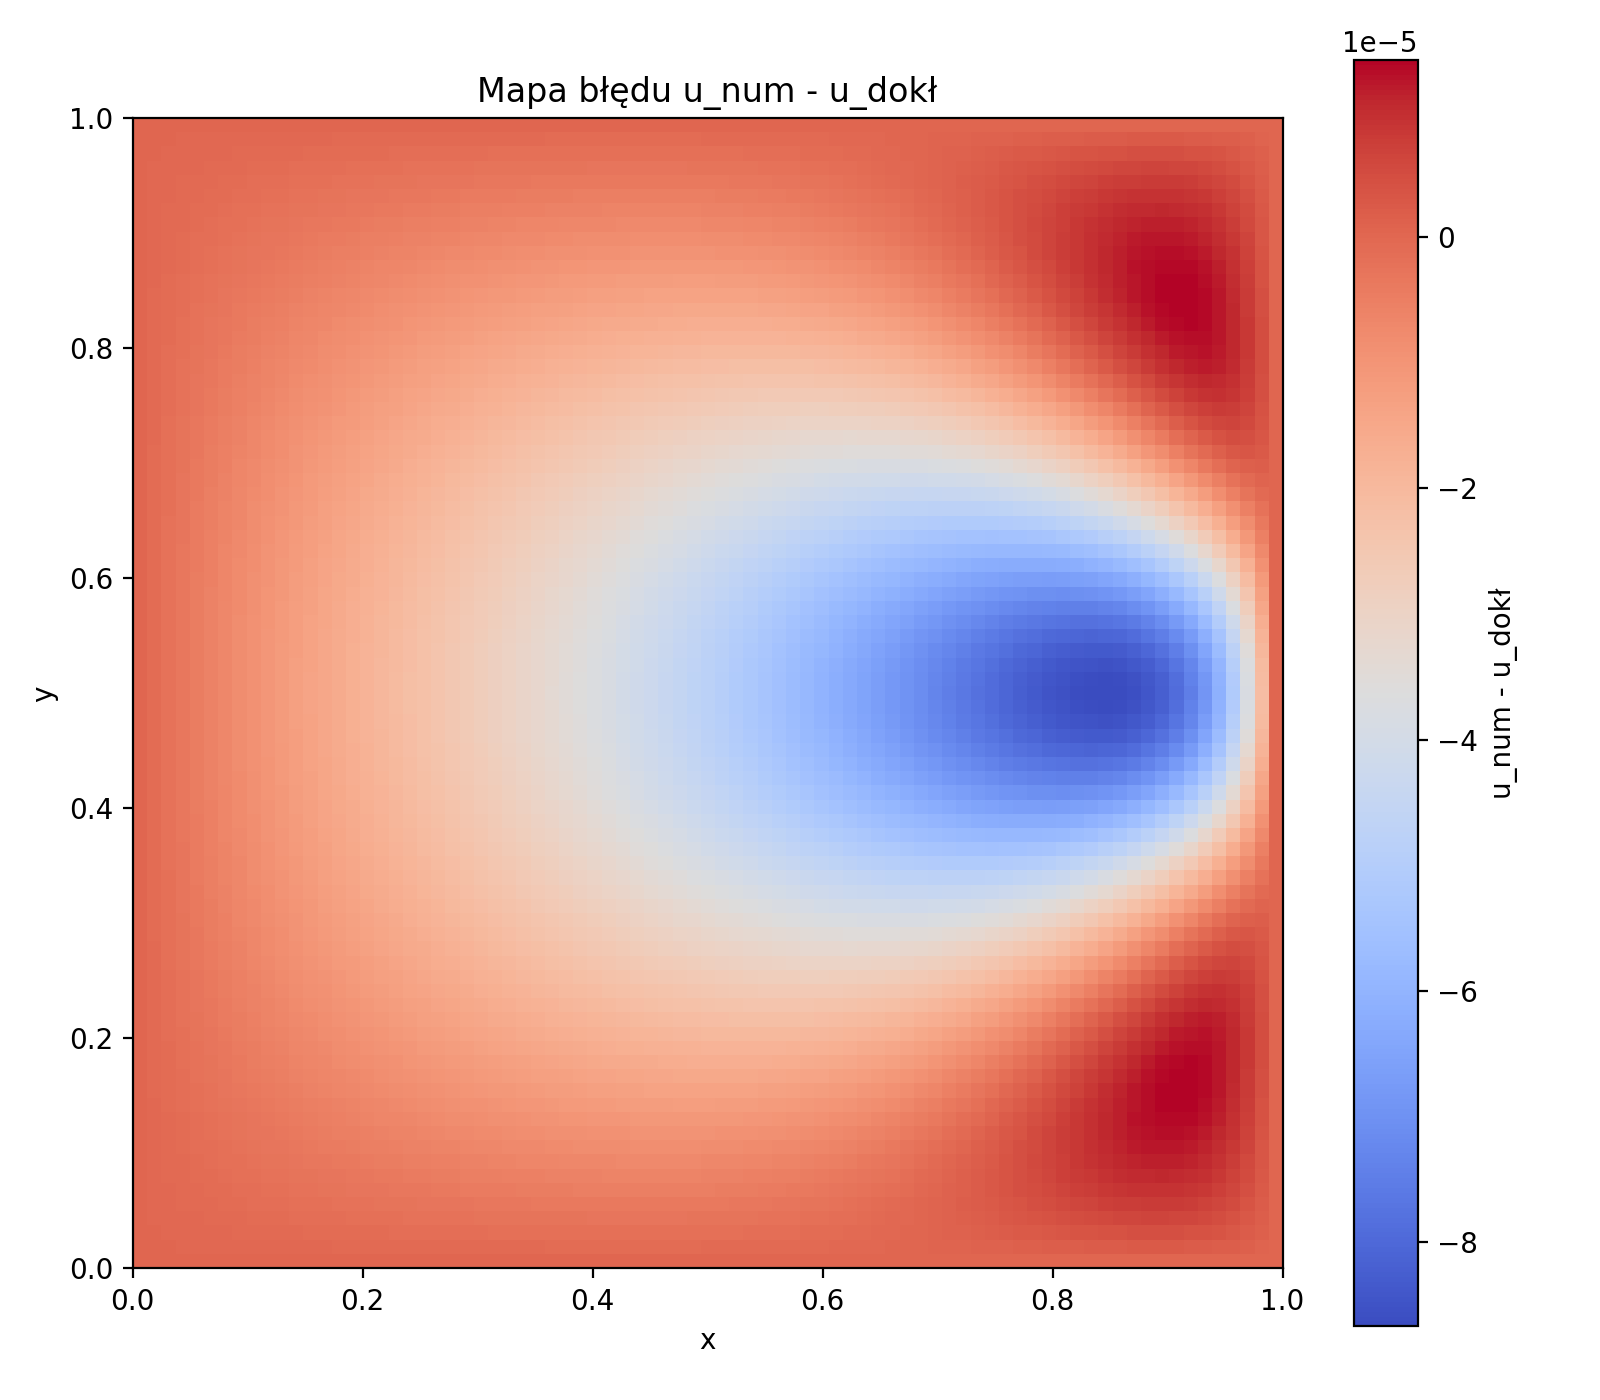
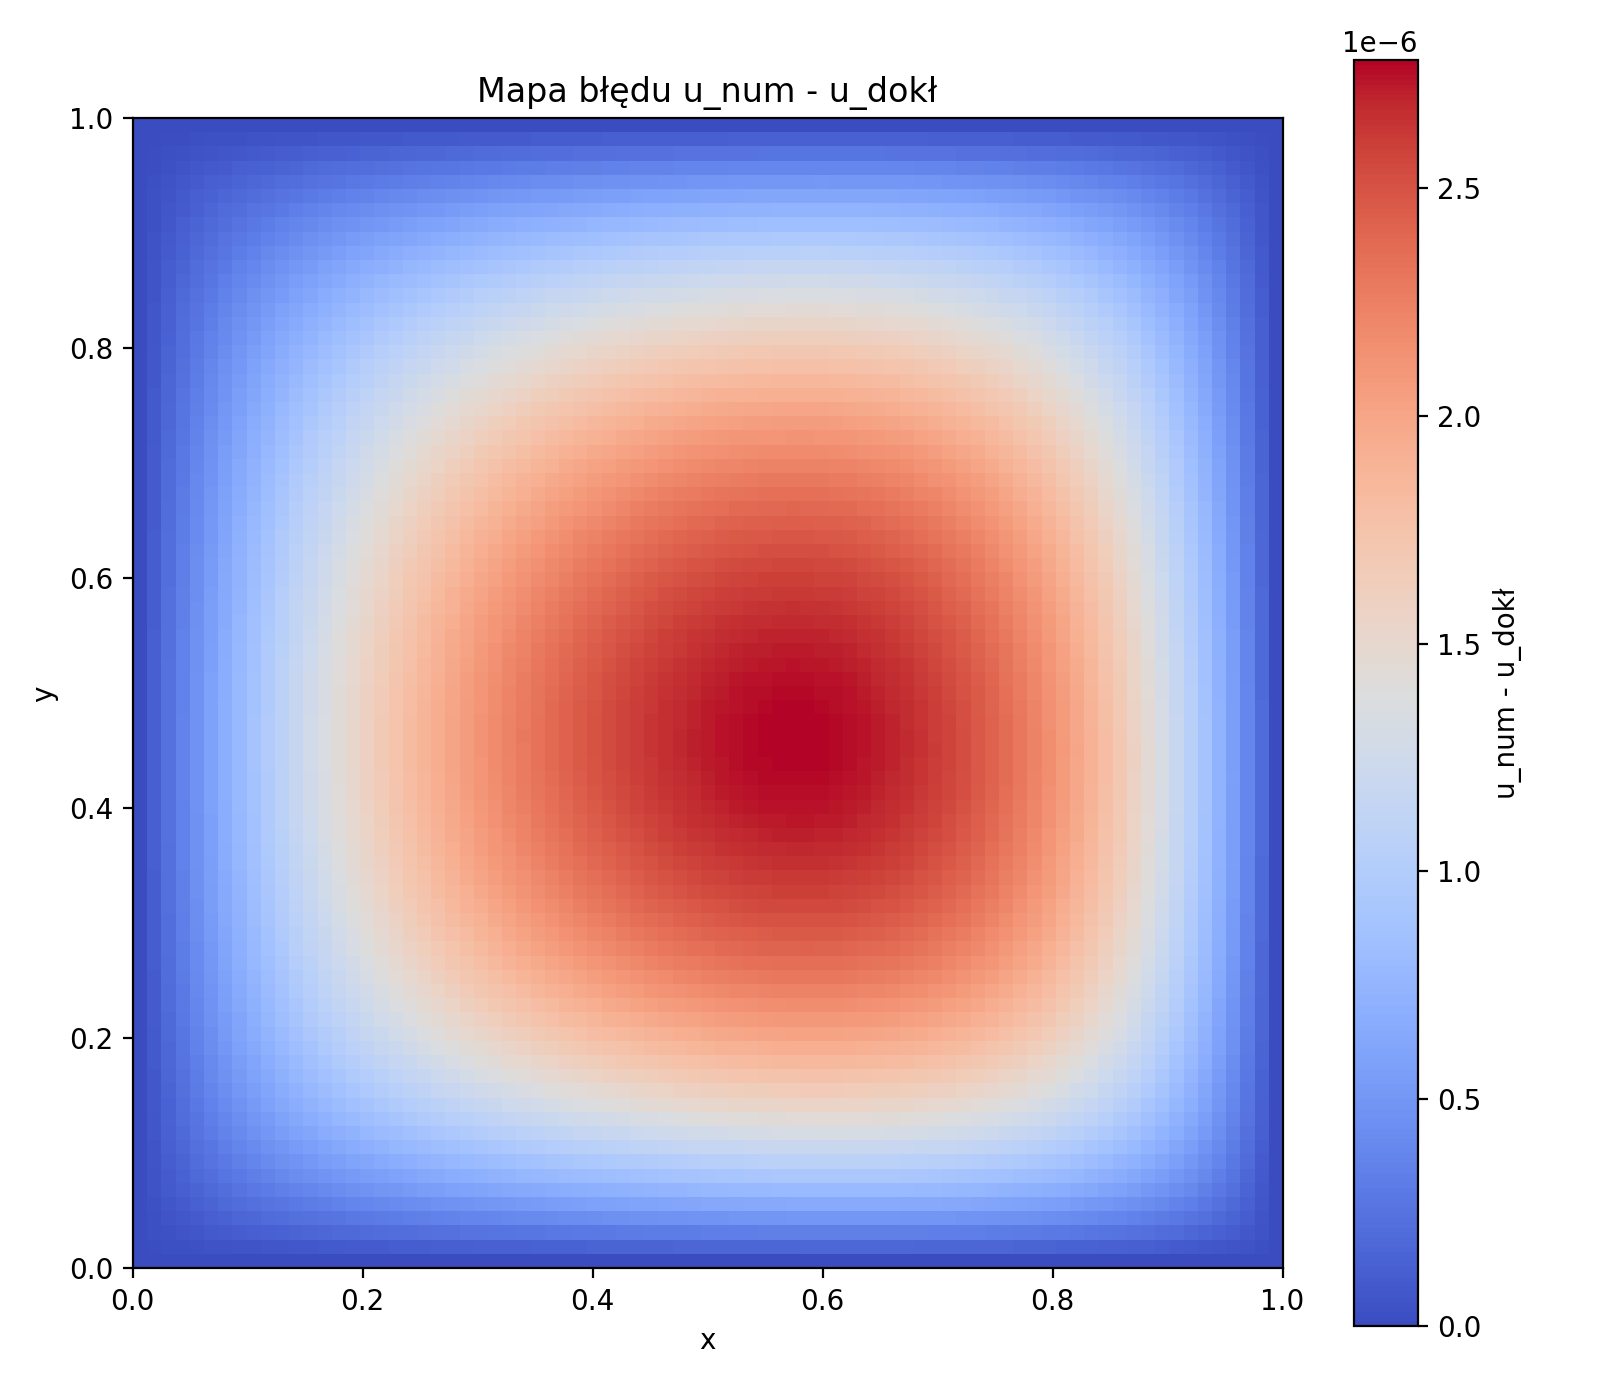
Finishing touches.

diff --git a/src/common/laplace.py b/src/common/laplace.py
@@ -17,9 +17,7 @@ def exact_solution(
     This function represents the real part of the complex-valued function
     f(z) introduced by the user.
     """
-    x0 = 1.3
-    y0 = 0.5
-    return np.log((x - x0) ** 2 + (y - y0) ** 2)
+    return np.exp(x) * np.cos(y)
 
 
 def solve_laplace(
